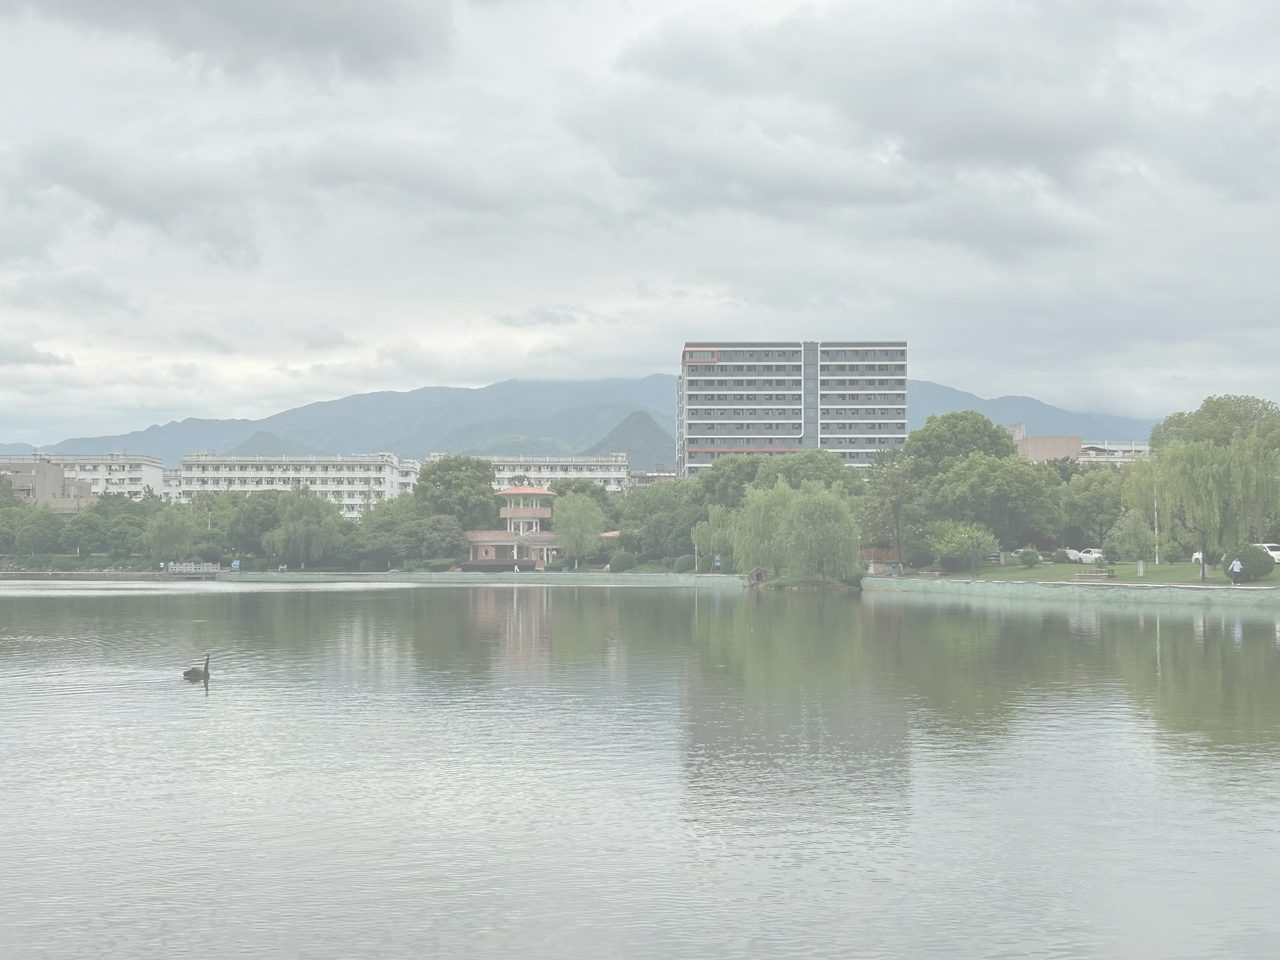
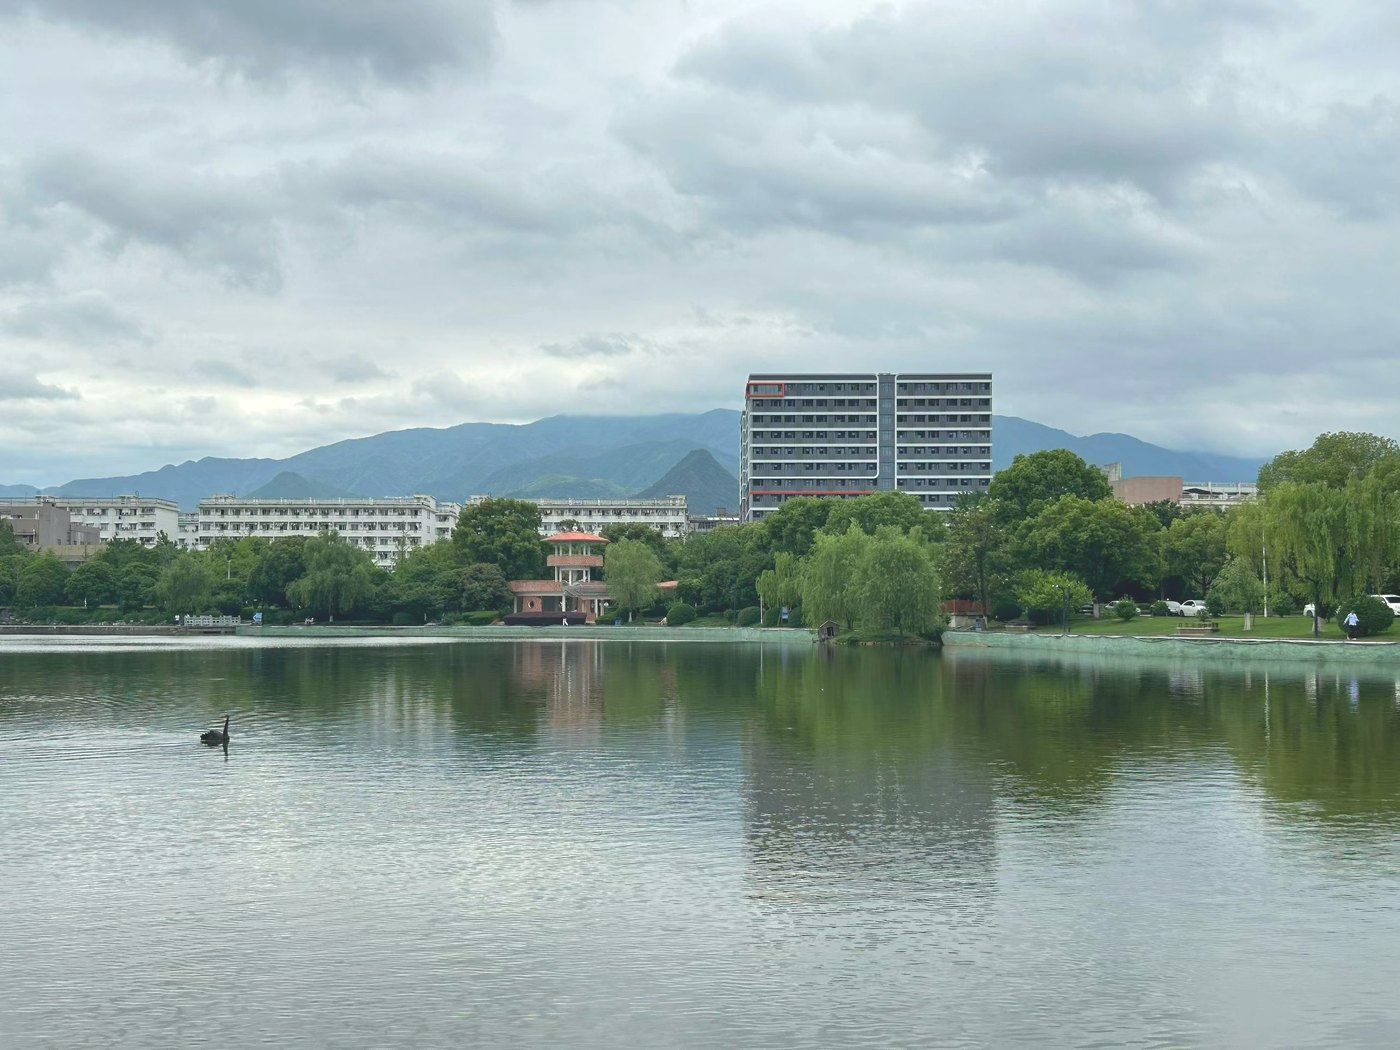
背景1.jpg提高饱和与可见度：融入纸色降至16%、饱和度+18%、顶部白罩减薄

diff --git a/华南文研/index.html b/华南文研/index.html
@@ -27,7 +27,7 @@ a{color:inherit;text-decoration:none}
 
 /* ===== 顶部 ===== */
 .hero{position:relative;overflow:hidden;padding:34px 20px 30px;text-align:center;
-  background:linear-gradient(180deg,rgba(251,248,241,.30) 0%,rgba(251,248,241,.86) 58%,#FBF8F1 100%),
+  background:linear-gradient(180deg,rgba(251,248,241,.10) 0%,rgba(251,248,241,.42) 40%,rgba(251,248,241,.78) 72%,#FBF8F1 96%),
     url('assets/bg_1.jpg') center 20% / cover no-repeat}
 .hero::before{content:"";position:absolute;left:-30%;top:-40%;width:160%;height:120%;
   background:radial-gradient(ellipse at 30% 20%,rgba(169,188,176,.35),rgba(169,188,176,0) 62%);
